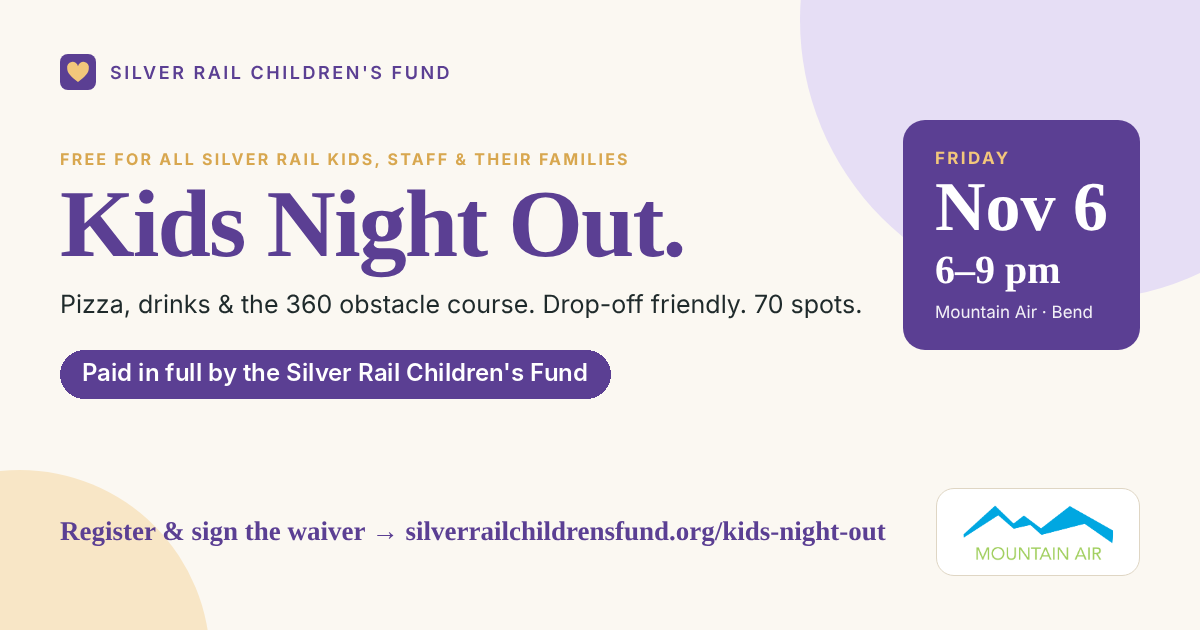
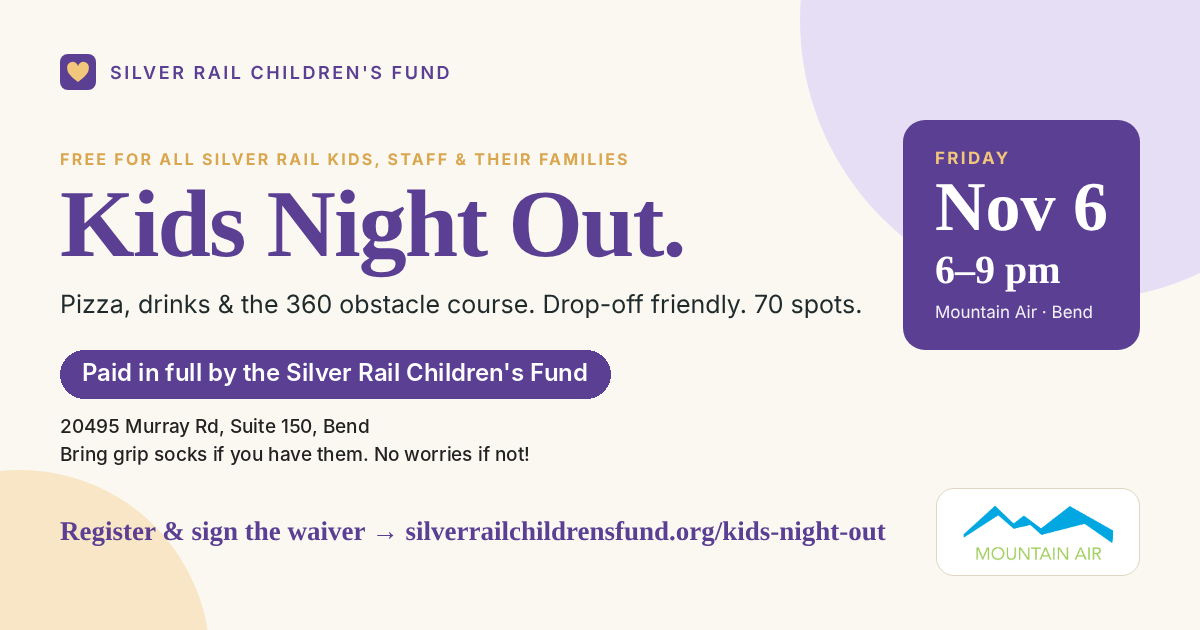
Kids Night Out: address on graphics, grip socks request
Claude-Session: https://claude.ai/code/session_019jt2LXU3CZrv6nyaaDTgQ8

Changed region(s): [[0.0308, 0.6635, 0.4317, 0.754]]

diff --git a/kids-night-out.html b/kids-night-out.html
@@ -190,7 +190,7 @@ footer.sf .sf-legal a{color:var(--ink-2)}
     <div class="sess" style="max-width:860px;grid-template-columns:repeat(auto-fit,minmax(240px,1fr))">
       <div class="card open"><span class="tag go">Open</span><b>Fri, Nov 6</b><p>6:00 – 9:00 pm<br>Mountain Air Trampoline Park<br>20495 Murray Rd, Suite 150, Bend<br>Free for all Silver Rail kids, staff &amp; their families · 70 spots</p></div>
       <div class="card"><b>Pizza &amp; drinks</b><p>Dinner is on us. Tell us about any food allergy on the form.</p></div>
-      <div class="card"><b>360 obstacle course</b><p>Plus the trampolines. Grip socks may be required by the park; bring yours or get a pair at the desk.</p></div>
+      <div class="card"><b>360 obstacle course</b><p>Plus the trampolines. Grip socks are required. If you have a pair, please bring them; it saves the fund a few dollars per child. No worries if not, the fund will cover a pair at the desk.</p></div>
     </div>
     <div class="keep" style="margin-top:26px">
       <div>
